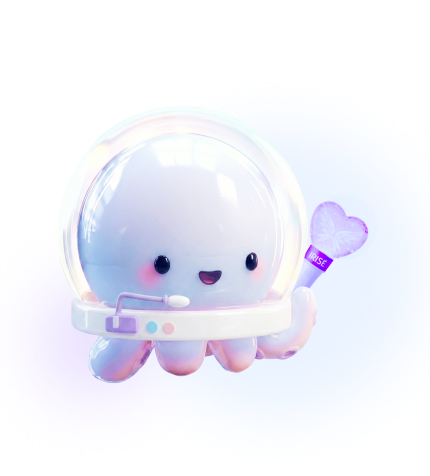
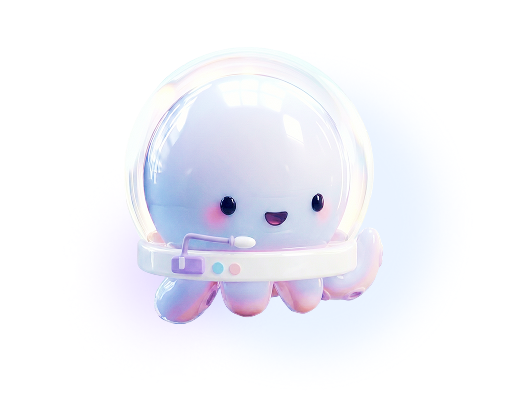
change img

Changed region(s): [[0.1209, 0.2382, 0.8767, 0.804], [0.7256, 0.6849, 0.7558, 0.7146], [0.6047, 0.1787, 0.6349, 0.2084]]

diff --git a/src/pages/startpage/OnboardingPage1.css b/src/pages/startpage/OnboardingPage1.css
@@ -52,6 +52,5 @@
 }
 
 .onboarding-1 .onboarding-image {
-  margin-left: 15px;
-  width: 83%;
+  width: 90%;
 }
